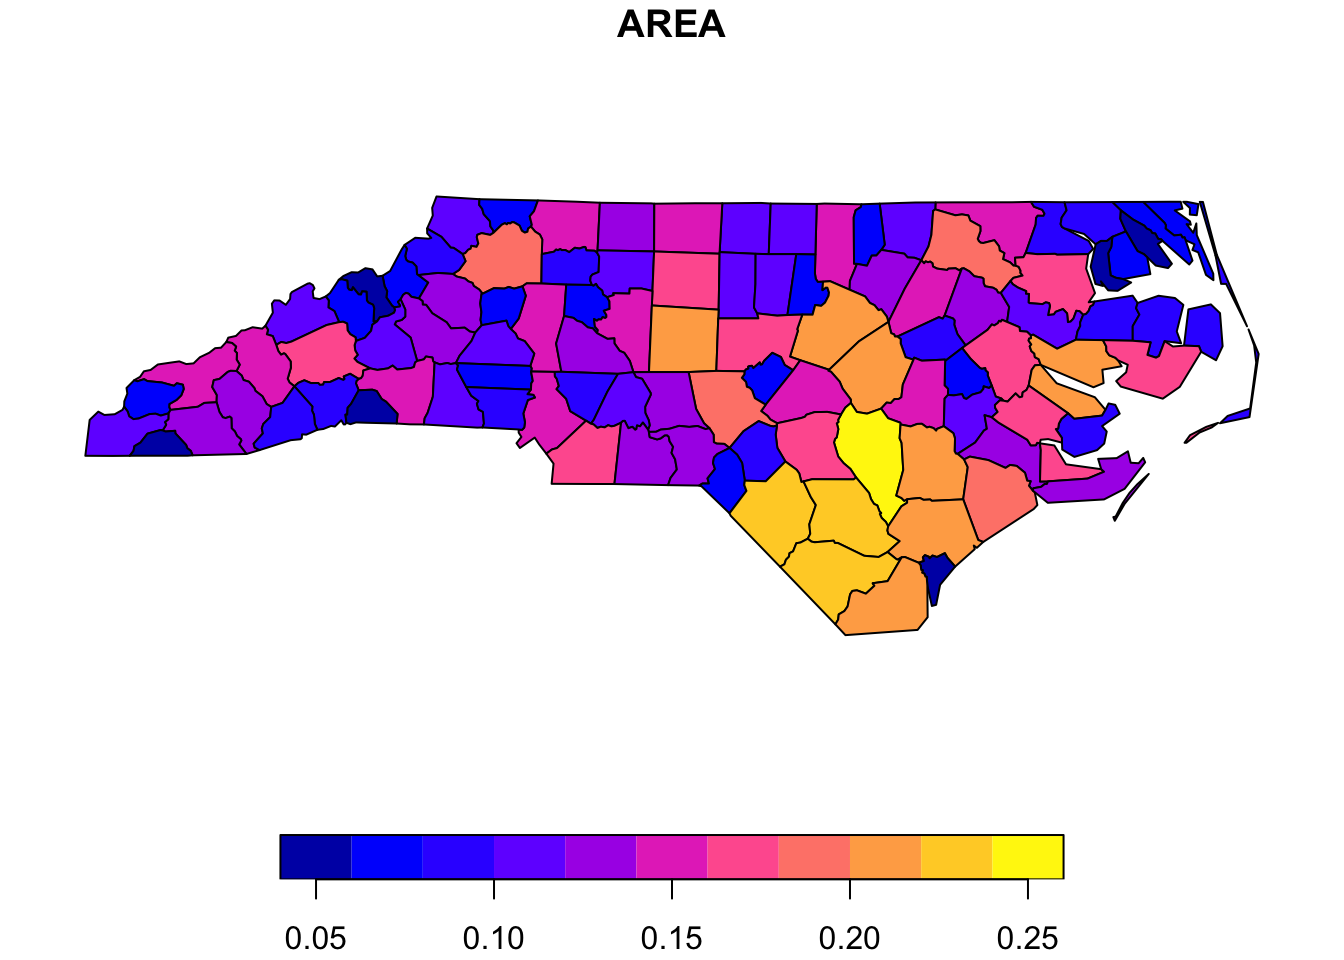
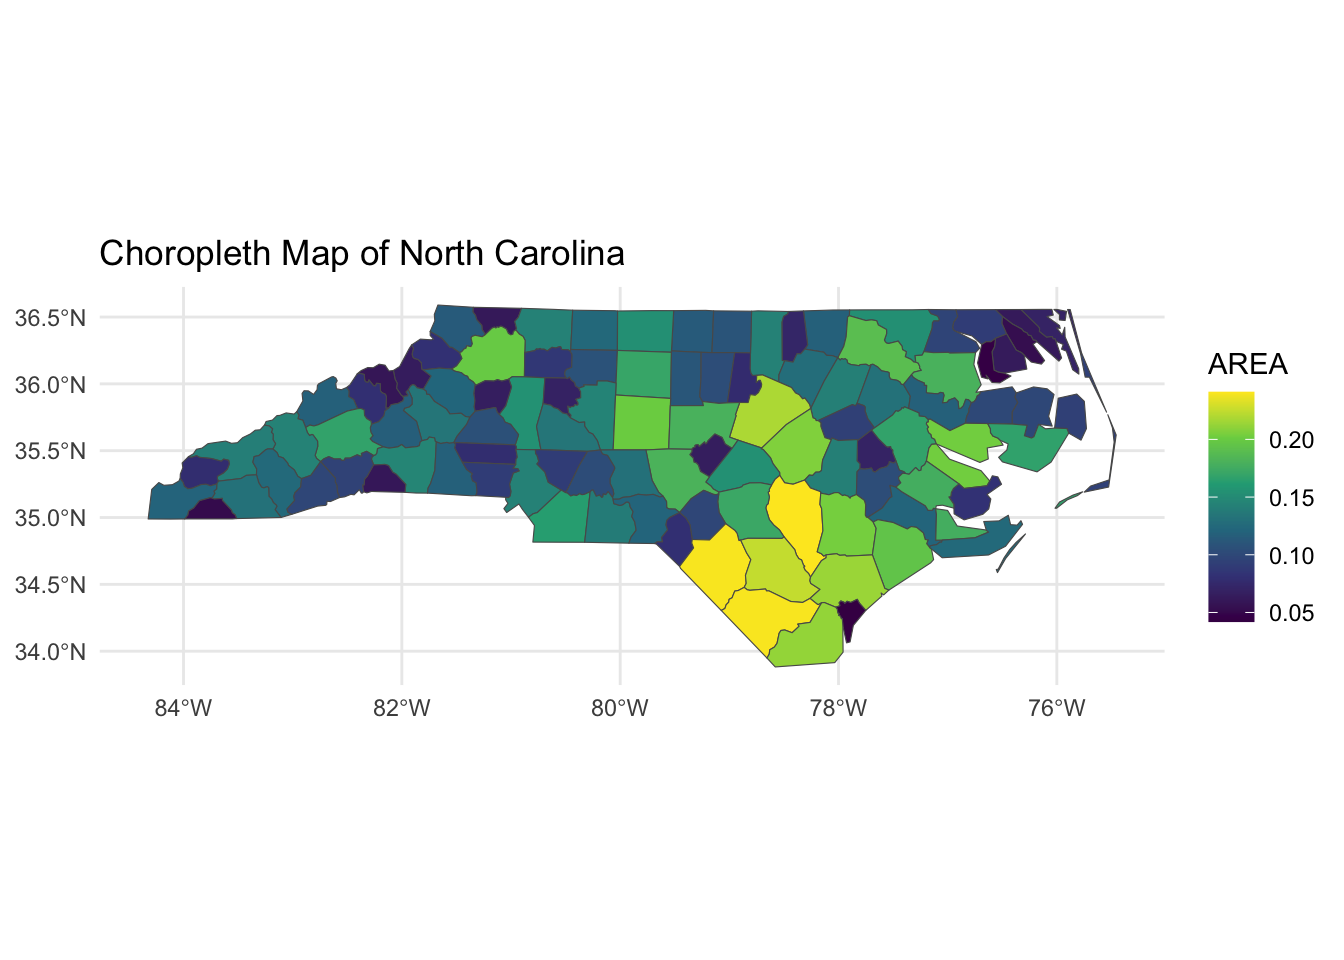
update sf best pkg post

diff --git a/package/sf.html b/package/sf.html
@@ -53,7 +53,8 @@
     />
     <meta name="description" content="The sf package in R specializes in
 geospatial visualization, offering streamlined access to geographic
-features like points, lines, and polygons." />
+features like points, lines, and polygons, and more generally to create
+maps." />
     <meta
       name="keywords"
       content="R,ggplot2,tidyverse,Example,Data,Dataviz,Datavisualization,Plot,Chart,Graph,Package,Library"
@@ -67,7 +68,8 @@ features with <strong>sf</strong>" />
     <meta property="og:image" content="img/overview_RGG.png" />
     <meta property="og:description" content="The sf package in R
 specializes in geospatial visualization, offering streamlined access to
-geographic features like points, lines, and polygons." />
+geographic features like points, lines, and polygons, and more generally
+to create maps." />
     <meta property="og:type" content="website" />
 
     <!-- Bootstrap core CSS -->
@@ -116,7 +118,7 @@ geographic features like points, lines, and polygons." />
             <p class="mt-4">The <code>sf</code> package in R specializes
 in <strong>geospatial visualization</strong>, offering streamlined
 access to <strong>geographic features</strong> like points, lines, and
-polygons.</p>
+polygons, and more generally to create maps.</p>
             <a
               class="btn btn-secondary btn-sm"
               href="https://r-spatial.github.io/sf/index.html"
@@ -168,13 +170,17 @@ polygons.</p>
 <h1>Quick start</h1>
 <hr />
 <p>In just a few lines of code, you can create stunning visualizations
-with the <code>sf</code> package in R. You only need to <a
-href="../168-load-a-shape-file-into-r.html">load a
-<strong>shapefile</strong></a> and you’re ready to go!</p>
+with the <code>sf</code> package in R. What’s more, <code>sf</code> lets
+you create maps from almost <strong>any data format</strong>, such as <a
+href="../168-load-a-shape-file-into-r.html">shapefiles</a> or <a
+href="../325-background-map-from-geojson-format-in-r.html">geojson</a>.
+You can learn more about geographical data in the <a
+href="../map.html">map section</a>.</p>
 <div class="row">
 <div class="col-md-5 col-sm-12 align-self-center">
 <p>This package offers a large variety of functions to manipulate and
-visualize geographic data. The main steps usually are:</p>
+visualize <a href="../map.html">geographic data</a>. The main steps
+usually are:</p>
 <ul>
 <li><p>create a <strong>geospatial object</strong> with
 <code>st_read()</code> or <code>read_sf()</code></p></li>
@@ -218,18 +224,35 @@ dataset, which contains the boundaries of North Carolina.</p>
 <div id="choropleth-maps" class="section level2">
 <h2>→ Choropleth Maps</h2>
 <p>The <code>sf</code> package allows you to create <a
-href="../choropleth-map.html">choropleth maps</a> with ease. Simply use
-the <code>plot()</code> function to visualize your data.</p>
+href="../choropleth-map.html">choropleth maps</a> with ease.</p>
+<p>Simply use the <code>geom_sf()</code> function with <a
+href="../ggplot2-package.html">ggplot2</a> to create a <a
+href="../choropleth-map.html">choropleth map</a> of your geographic
+data.</p>
+<p>You can <strong>customize</strong> the map by specifying the
+<code>fill</code> aesthetic and the <strong>color palette</strong> using
+the <code>scale_fill_viridis_c()</code> function</p>
 <p>Example:</p>
-<div class="sourceCode" id="cb3"><pre class="sourceCode r"><code class="sourceCode r"><span id="cb3-1"><a href="#cb3-1" tabindex="-1"></a><span class="fu">plot</span>(nc[<span class="st">&quot;AREA&quot;</span>])</span></code></pre></div>
+<div class="sourceCode" id="cb3"><pre class="sourceCode r"><code class="sourceCode r"><span id="cb3-1"><a href="#cb3-1" tabindex="-1"></a><span class="fu">library</span>(sf)</span>
+<span id="cb3-2"><a href="#cb3-2" tabindex="-1"></a><span class="fu">library</span>(ggplot2)</span>
+<span id="cb3-3"><a href="#cb3-3" tabindex="-1"></a></span>
+<span id="cb3-4"><a href="#cb3-4" tabindex="-1"></a><span class="co"># Read the shapefile</span></span>
+<span id="cb3-5"><a href="#cb3-5" tabindex="-1"></a>nc <span class="ot">=</span> <span class="fu">st_read</span>(<span class="fu">system.file</span>(<span class="st">&quot;shape/nc.shp&quot;</span>, <span class="at">package=</span><span class="st">&quot;sf&quot;</span>), <span class="at">quiet =</span> <span class="cn">TRUE</span>)</span>
+<span id="cb3-6"><a href="#cb3-6" tabindex="-1"></a></span>
+<span id="cb3-7"><a href="#cb3-7" tabindex="-1"></a><span class="co"># Create the plot using ggplot2</span></span>
+<span id="cb3-8"><a href="#cb3-8" tabindex="-1"></a><span class="fu">ggplot</span>() <span class="sc">+</span></span>
+<span id="cb3-9"><a href="#cb3-9" tabindex="-1"></a>  <span class="fu">geom_sf</span>(<span class="at">data =</span> nc, <span class="fu">aes</span>(<span class="at">fill =</span> AREA)) <span class="sc">+</span></span>
+<span id="cb3-10"><a href="#cb3-10" tabindex="-1"></a>  <span class="fu">scale_fill_viridis_c</span>() <span class="sc">+</span></span>
+<span id="cb3-11"><a href="#cb3-11" tabindex="-1"></a>  <span class="fu">ggtitle</span>(<span class="st">&#39;Choropleth Map of North Carolina&#39;</span>) <span class="sc">+</span></span>
+<span id="cb3-12"><a href="#cb3-12" tabindex="-1"></a>  <span class="fu">theme_minimal</span>()</span></code></pre></div>
 <p><img src="sf_files/figure-html/unnamed-chunk-4-1.png" width="672" style="display: block; margin: auto;" /></p>
 <p><br></p>
 </div>
 <div id="graticules" class="section level2">
 <h2>→ Graticules</h2>
 <p>Graticules are lines of latitude and longitude that help you orient
-yourself on a map. You can add graticules to your map using the
-<code>plot()</code> function.</p>
+yourself on a <a href="../map.html">map</a>. You can add graticules to
+your map using the <code>plot()</code> function.</p>
 <p>Example:</p>
 <div class="sourceCode" id="cb4"><pre class="sourceCode r"><code class="sourceCode r"><span id="cb4-1"><a href="#cb4-1" tabindex="-1"></a><span class="fu">library</span>(maps)</span>
 <span id="cb4-2"><a href="#cb4-2" tabindex="-1"></a><span class="fu">library</span>(sf)</span>
@@ -264,21 +287,27 @@ polygon’s “center” and may not always provide meaningful or accurate
 insights.</em></p>
 <p>Example:</p>
 <div class="sourceCode" id="cb5"><pre class="sourceCode r"><code class="sourceCode r"><span id="cb5-1"><a href="#cb5-1" tabindex="-1"></a><span class="fu">library</span>(sf)</span>
-<span id="cb5-2"><a href="#cb5-2" tabindex="-1"></a></span>
-<span id="cb5-3"><a href="#cb5-3" tabindex="-1"></a>nc <span class="ot">=</span> <span class="fu">st_read</span>(<span class="fu">system.file</span>(<span class="st">&quot;shape/nc.shp&quot;</span>, <span class="at">package=</span><span class="st">&quot;sf&quot;</span>), <span class="at">quiet =</span> <span class="cn">TRUE</span>)</span>
-<span id="cb5-4"><a href="#cb5-4" tabindex="-1"></a>ncg <span class="ot">=</span> <span class="fu">st_geometry</span>(nc)</span>
-<span id="cb5-5"><a href="#cb5-5" tabindex="-1"></a>cntrd <span class="ot">=</span> <span class="fu">st_centroid</span>(ncg)</span>
-<span id="cb5-6"><a href="#cb5-6" tabindex="-1"></a></span>
-<span id="cb5-7"><a href="#cb5-7" tabindex="-1"></a><span class="fu">plot</span>(ncg, <span class="at">border =</span> <span class="st">&#39;grey&#39;</span>, <span class="at">main =</span> <span class="st">&#39;Centroids of North Carolina&#39;</span>)</span>
-<span id="cb5-8"><a href="#cb5-8" tabindex="-1"></a><span class="fu">plot</span>(cntrd, <span class="at">col =</span> <span class="st">&#39;red&#39;</span>, <span class="at">add =</span> <span class="cn">TRUE</span>, <span class="at">cex =</span> <span class="fl">0.6</span>, <span class="at">pch =</span> <span class="dv">8</span>)</span></code></pre></div>
+<span id="cb5-2"><a href="#cb5-2" tabindex="-1"></a><span class="fu">library</span>(ggplot2)</span>
+<span id="cb5-3"><a href="#cb5-3" tabindex="-1"></a></span>
+<span id="cb5-4"><a href="#cb5-4" tabindex="-1"></a><span class="co"># Read the shapefile</span></span>
+<span id="cb5-5"><a href="#cb5-5" tabindex="-1"></a>nc <span class="ot">=</span> <span class="fu">st_read</span>(<span class="fu">system.file</span>(<span class="st">&quot;shape/nc.shp&quot;</span>, <span class="at">package=</span><span class="st">&quot;sf&quot;</span>), <span class="at">quiet =</span> <span class="cn">TRUE</span>)</span>
+<span id="cb5-6"><a href="#cb5-6" tabindex="-1"></a>ncg <span class="ot">=</span> <span class="fu">st_geometry</span>(nc)</span>
+<span id="cb5-7"><a href="#cb5-7" tabindex="-1"></a>cntrd <span class="ot">=</span> <span class="fu">st_centroid</span>(ncg)</span>
+<span id="cb5-8"><a href="#cb5-8" tabindex="-1"></a></span>
+<span id="cb5-9"><a href="#cb5-9" tabindex="-1"></a><span class="co"># Create the plot using ggplot2</span></span>
+<span id="cb5-10"><a href="#cb5-10" tabindex="-1"></a><span class="fu">ggplot</span>() <span class="sc">+</span></span>
+<span id="cb5-11"><a href="#cb5-11" tabindex="-1"></a>  <span class="fu">geom_sf</span>(<span class="at">data =</span> ncg, <span class="at">fill =</span> <span class="cn">NA</span>, <span class="at">color =</span> <span class="st">&#39;grey&#39;</span>) <span class="sc">+</span></span>
+<span id="cb5-12"><a href="#cb5-12" tabindex="-1"></a>  <span class="fu">geom_sf</span>(<span class="at">data =</span> cntrd, <span class="at">color =</span> <span class="st">&#39;red&#39;</span>, <span class="at">shape =</span> <span class="dv">8</span>, <span class="at">size =</span> <span class="dv">2</span>) <span class="sc">+</span></span>
+<span id="cb5-13"><a href="#cb5-13" tabindex="-1"></a>  <span class="fu">ggtitle</span>(<span class="st">&#39;Centroids of North Carolina&#39;</span>) <span class="sc">+</span></span>
+<span id="cb5-14"><a href="#cb5-14" tabindex="-1"></a>  <span class="fu">theme_minimal</span>()</span></code></pre></div>
 <p><img src="sf_files/figure-html/unnamed-chunk-6-1.png" width="672" style="display: block; margin: auto;" /></p>
 <p><br></p>
 </div>
 <div id="whats-more" class="section level2">
 <h2>→ What’s more?</h2>
 <p>While <code>sf</code> is not a data visualization package per se, it
-provides extensive functionalities for handling and visualizing
-geographic data. This includes:</p>
+provides extensive functionalities for handling and <a
+href="../map.html">visualizing geographic data</a>. This includes:</p>
 <ul>
 <li><strong>Creating a geospatial object</strong> using
 <code>st_read()</code> or <code>read_sf()</code> from virtually any file
